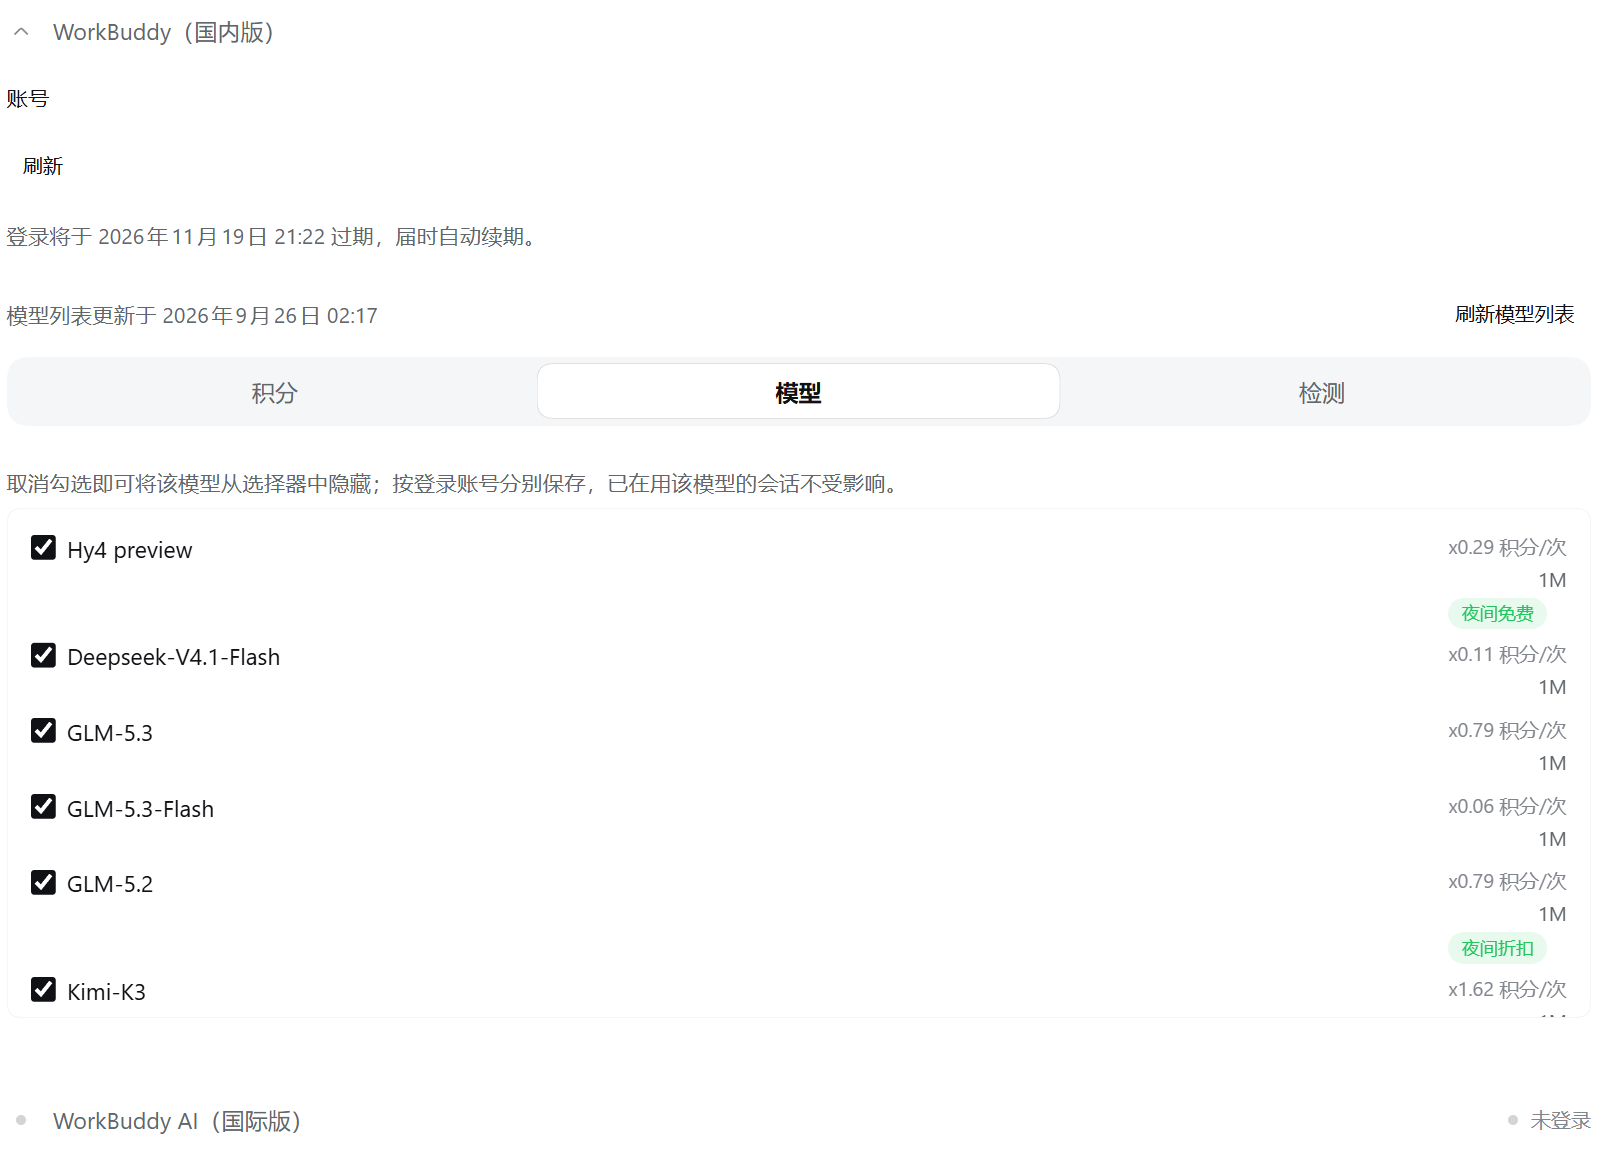
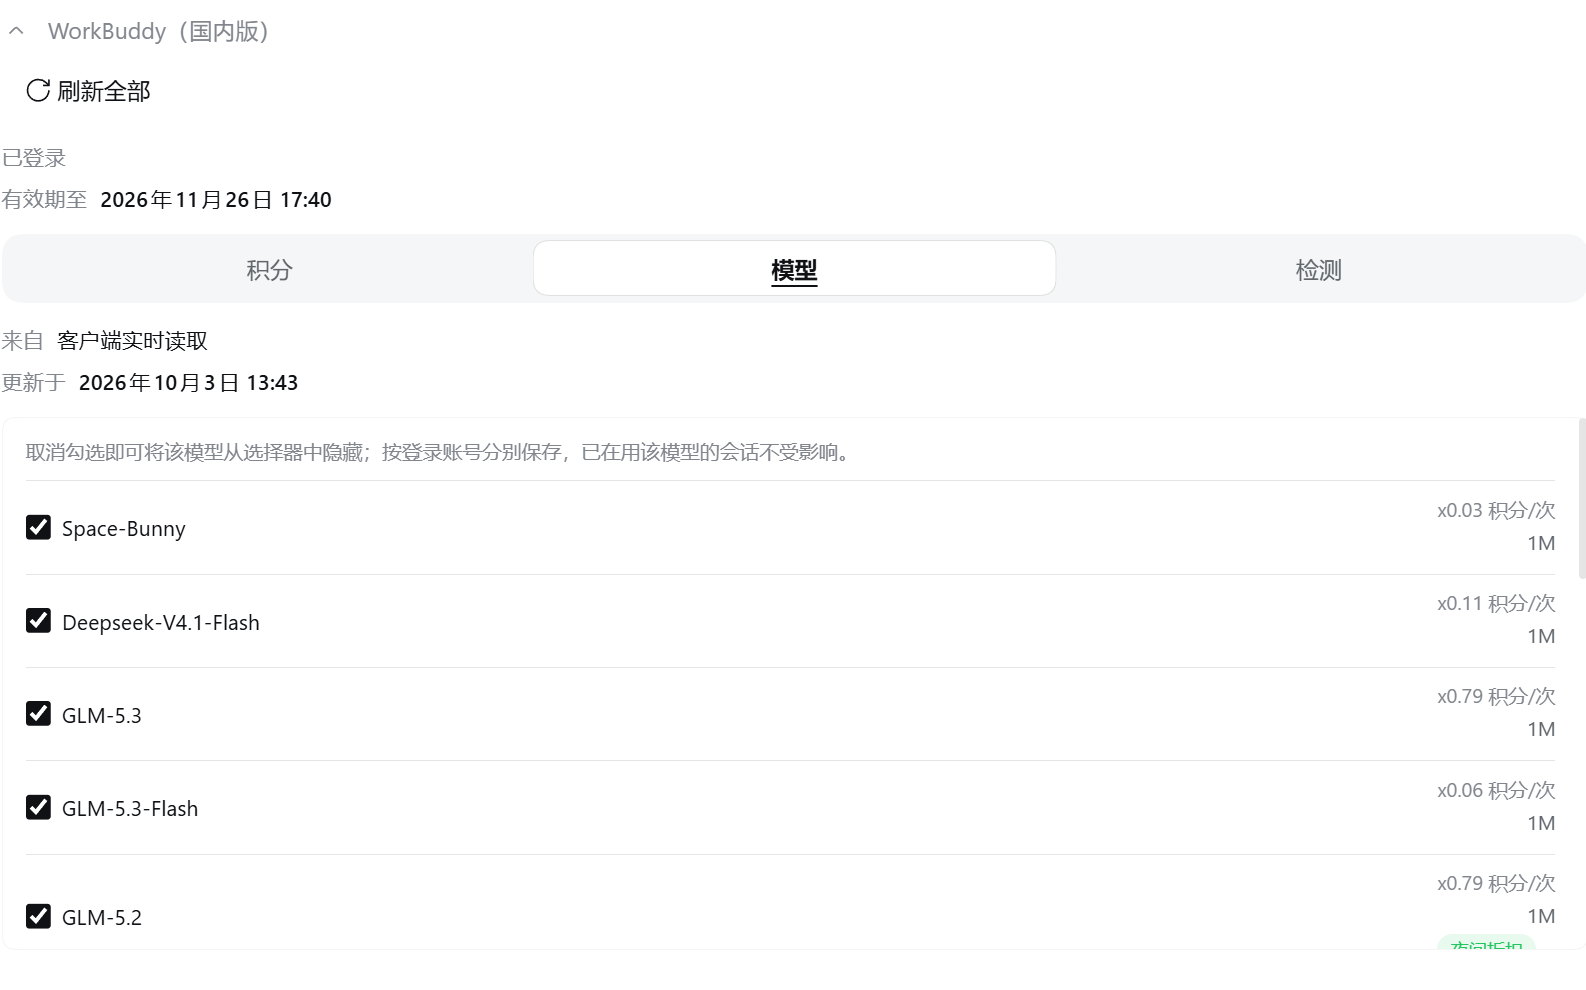
docs(assets): 换上三张重拍的门面图，并整理文档账目
## 做了什么

- `credits-tab.png` / `models-tab.png` / `detection-tab.png` 换成重拍版：新排版（`刷新全部` 独占一行、
  合成的套餐读数、检测页的两行字段）+ **账号行里的 uid 已抹掉**。
- 根 [AGENTS.md](AGENTS.md) 待办删掉六条已完成的（历史归 git log，仪表盘只留可行动的），
  只剩待发的 `0.3.1`。
- [assets/AGENTS.md](assets/AGENTS.md) 新增两条判据：**账号 ID 不许进图**（附量像素的判据，
  不靠肉眼）、**插件页那张是刻意不重拍的例外**。
- 清掉 `.local/` 里的一次性产物（量测脚本、对照图、0.3.0 的发布说明草稿）。

## 为什么

- 三张图原先带着维护者的账号 uid，而它们是**公开门面**（README 与 npm 页）——
  维护者发现后重拍并抹掉了它。
- 反过来，`plugin-page.png` 是**折叠态**，只写「已登录」、本来就不含 ID，
  所以它不跟着新排版重拍：重拍反而会把 ID 带进来。这一反一正两条判据写进规则层，
  免得下次有人为了「对齐」把它重拍掉。
- 待办的规矩是**完成一项移走一项**，不是攒着打勾。

## 本次不重截 plugin-page.png（按 assets/AGENTS.md 的完成定义写明）

理由是隐私而非省事：它的折叠态不含账号 ID，重拍会带进来（维护者 2026-10-03
「刚刚好挡住我的隐私 ID」）。代价是图里的版本徽章停在 `v0.3.0`，属已知取舍，
已记在 [assets/AGENTS.md](assets/AGENTS.md) 的已知约束里。

## 怎么验证

- **像素量过三张图的账号行**：墨迹最右 `x=64`，就是「已登录」三个汉字；带 uid 时会伸到 ~915。
  三张一致。判据不靠肉眼，脚本量完即删。
- 六道门全过：两半 tsc、tsdown 重建、vitest、eslint、prettier、`check:release`。
- 链接校验 0 错误 0 警告。

## 怎么回滚

`git revert` 本提交；图片是同名覆盖，回滚即换回旧图。

diff --git a/AGENTS.md b/AGENTS.md
@@ -60,27 +60,12 @@
 
 ## 待办
 
-- [x] 客户端 i18n 对齐 `dsh-ds-balance` 的扁平键 + 插值形态；文案语义 2026-09-26 全量过一遍（标签按读者任务重排同批）
-- [x] 首次发布 `0.1.0`（维护者本地 publish + Trusted Publisher 已配）；README 门面已按发布态重写（npm 徽章已加）
-- [x] 发布链落地并跑通：`release.yml` 支持推 tag 触发（带 tag/版本一致性闸）、守卫基线排除正在发的 tag、Release 步对 5xx 重试 —— `0.2.0` 全链绿
-- [x] **门面截图重拍**（2026-10-02 维护者手动完成）：换成描述名（`model-picker` / `plugin-page` / `models-tab` /
-  `detection-tab` / `credits-tab` / `composer-row` / `reasoning-levels-declared.png`），数字编号作废（`5.png` 本就空缺）。
-  新增 `composer-row.png`（币图标 + 积分 + 灯泡并排）与 `reasoning-levels-declared.png`（已声明态，从孤儿变成被引用）。
-  两份门面的引用与 alt 同批改齐，表见 [assets/README.md](assets/README.md)
-- [x] **注册与揭示之间的空窗**（[issue #2](https://github.com/zlZayn/dsh-workbuddy-bridge/issues/2)）：已按推荐方向实施 —— 启动改三相
-  「读凭据并采纳身份 → 注册 provider → 抓目录」，provider 一出现 catalog 就已揭示。守卫在
-  `tests/catalog-lifecycle.spec.ts`（采样循环必须在 `ctx.plugin` 之前起并与之并发，否则两种顺序都会绿）；
-  已反证：改回旧顺序该用例报 2 处违规。判据与替代方案见 [决策记录](.agents/notes/2026-10-02-startup-window-fix-direction.md)
-- [x] **实测改动的前置**（2026-10-02 解决）：此前装的是真实目录副本，改源码 → build 不生效，还得手动同步 + 重启，
-  且半同步（只换客户端半）会让控件整个不渲染。现已改为 **`link:` 形态**，`build` 完只需重启 dsh。
-  形态判据见 [docs/PUBLISHING.md](docs/PUBLISHING.md) 的「本地开发装法」；回滚备份在 profile 下的 `*.bak-link-<时间戳>`
-- [ ] **重拍门面截图**（维护者手动）：四个块与积分行的排版这一轮改过（见[决策记录](.agents/notes/2026-10-03-card-two-line-template.md)），
-  波及 `plugin-page` / `credits-tab` / `models-tab` / `detection-tab` 四张；表见 [assets/README.md](assets/README.md)
-- [ ] **发 `0.3.1`**（patch：修缺陷 + 等价重构）：`package.json` 已 bump、`v0.3.1` 已打在本地，等截图拍完
-  推 `main` + tag 即走 `release.yml`。推送前逐条走 [docs/PUBLISHING.md](docs/PUBLISHING.md) 的「发版前确认」
-  —— 其中三条真机脚本只能在本机跑（macOS 那条本机跑不了，Release notes 就别声称 macOS 已验证）
-  - **截图提交之后先把 tag 移到最终提交**（`git tag -f v0.3.1`）：workflow 从 **tag** 构建产物，
-    tag 落在截图之前，发出去的包就不是最终形态
+- [ ] **发 `0.3.1`**（patch：修缺陷 + 等价重构）：`package.json` 已 bump、三张门面图已换、
+  `v0.3.1` 已打在本地，推 `main` + tag 即走 `release.yml`。推送前逐条走
+  [docs/PUBLISHING.md](docs/PUBLISHING.md) 的「发版前确认」—— 其中三条真机脚本只能在本机跑
+  （macOS 那条本机跑不了，Release notes 就别声称 macOS 已验证）
+  - **推之前先把 tag 移到最终提交**（`git tag -f v0.3.1`）：workflow 从 **tag** 构建产物，
+    tag 落在提交之前，发出去的包就不是最终形态
 
 ## 活跃坑
 

diff --git a/assets/AGENTS.md b/assets/AGENTS.md
@@ -50,6 +50,13 @@
 ## 已知约束
 
 - **图里不许出现真实凭据**：卡片只允许出现账号与状态；`authFile` 那类只读行的输入框应当是空的。
+- **账号 ID 不许进图**：账号行是 `已登录 <昵称或 uid>`，没有昵称时就是那串 uid（2026-10-03 起）。
+  按下快门前后都要核一眼这一行 —— 维护者的处理是把 uid 抹掉，只留「已登录」。
+  判据是**量像素**，不是肉眼：账号那一行的墨迹最右 x 只有几十像素（三个汉字）才对，
+  几百像素就是 ID 还在。
+- **插件页那张是刻意的例外**：折叠态只写「已登录」，不含 ID，所以它**不跟着新排版重拍**
+  —— 重拍就会把 ID 带进来（维护者 2026-10-03：「刚刚好挡住我的隐私 ID」）。
+  代价是图里的版本徽章会停在当时那个版本，属已知取舍。
 - **整屏图不要设置 viewport**：用自然视口拍。改 viewport 会把 devicePixelRatio 压成 1，界面整体缩小。
 - **文件名 = 内容**：两份门面按名引用，重拍后同名覆盖。文件名只在「图的内容变了、名字还叫旧含义」时才改
   （2026-10-02 把数字编号换成描述名，因为三张图的内容已与编号含义脱节），改动要同批同步两份门面与本 README。
